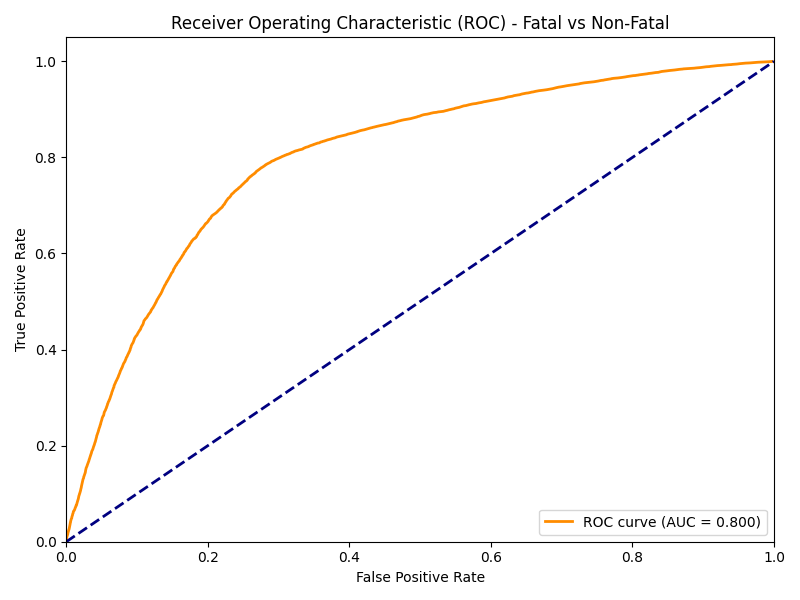
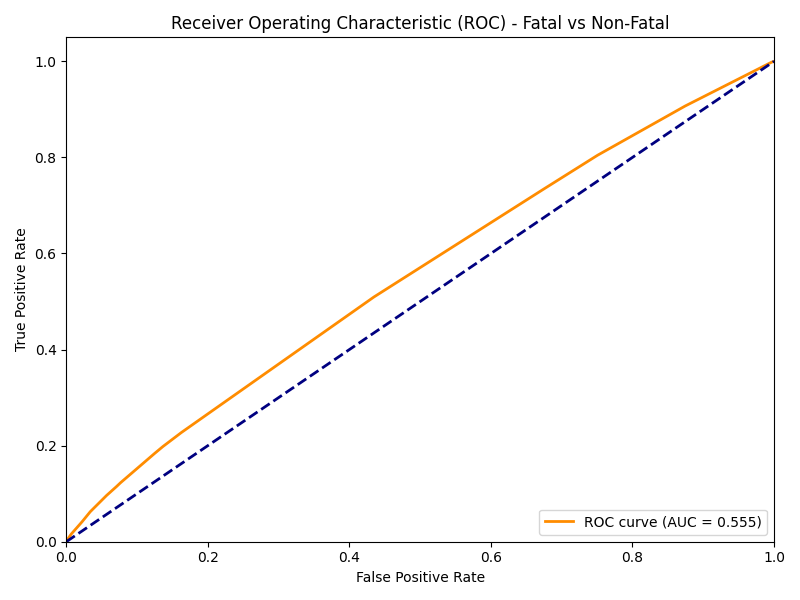
Fix ML target leakage by removing lat/long features

diff --git a/adas/ml_predictor.py b/adas/ml_predictor.py
@@ -27,8 +27,6 @@ class DynamicRiskPredictor:
         
         # Create input dataframe matching training features
         X_input = pd.DataFrame([{
-            'lat': lat,
-            'long': lon,
             'is_raining': is_raining,
             'is_snowing': is_snowing,
             'is_fog': is_fog,

diff --git a/scripts/train_ml_model.py b/scripts/train_ml_model.py
@@ -64,7 +64,7 @@ def train_model():
             
     df['hour'] = df['hrmn'].apply(extract_hour)
     
-    features = ['lat', 'long', 'is_raining', 'is_snowing', 'is_fog', 'is_night', 'hour']
+    features = ['is_raining', 'is_snowing', 'is_fog', 'is_night', 'hour']
     X = df[features]
     y = df['is_severe']
     